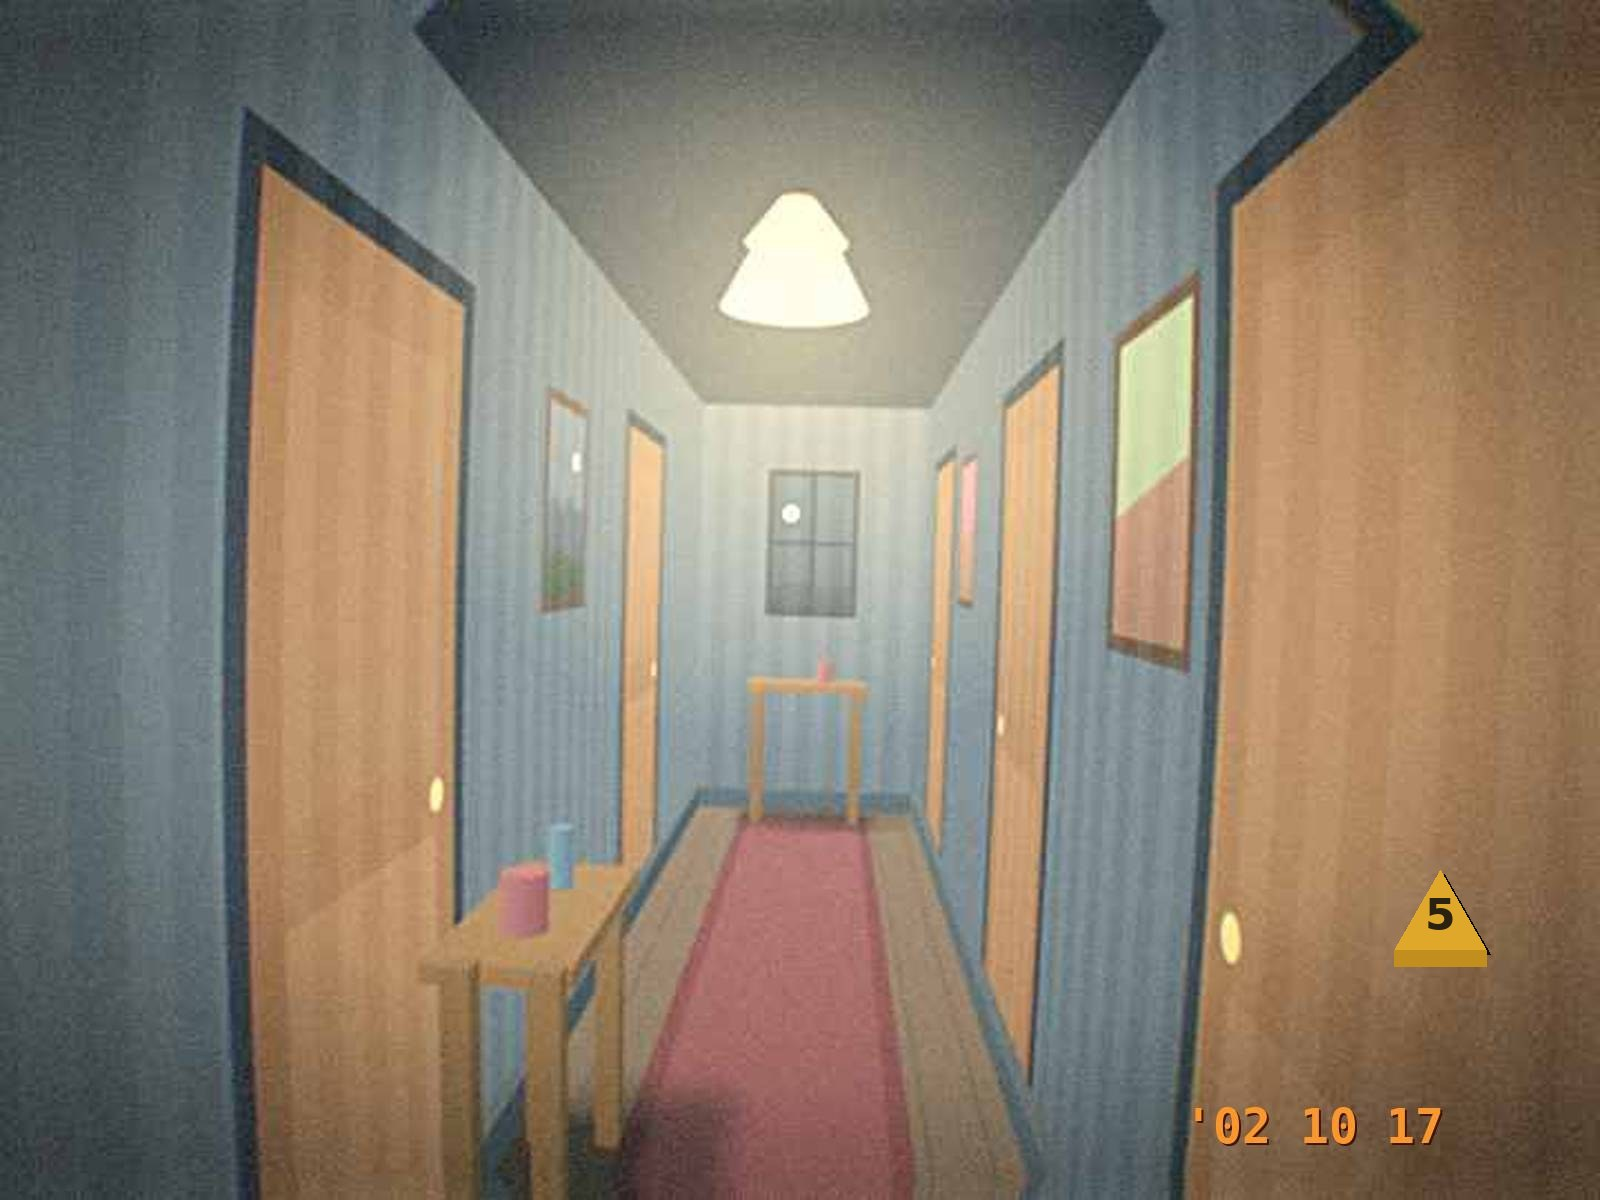
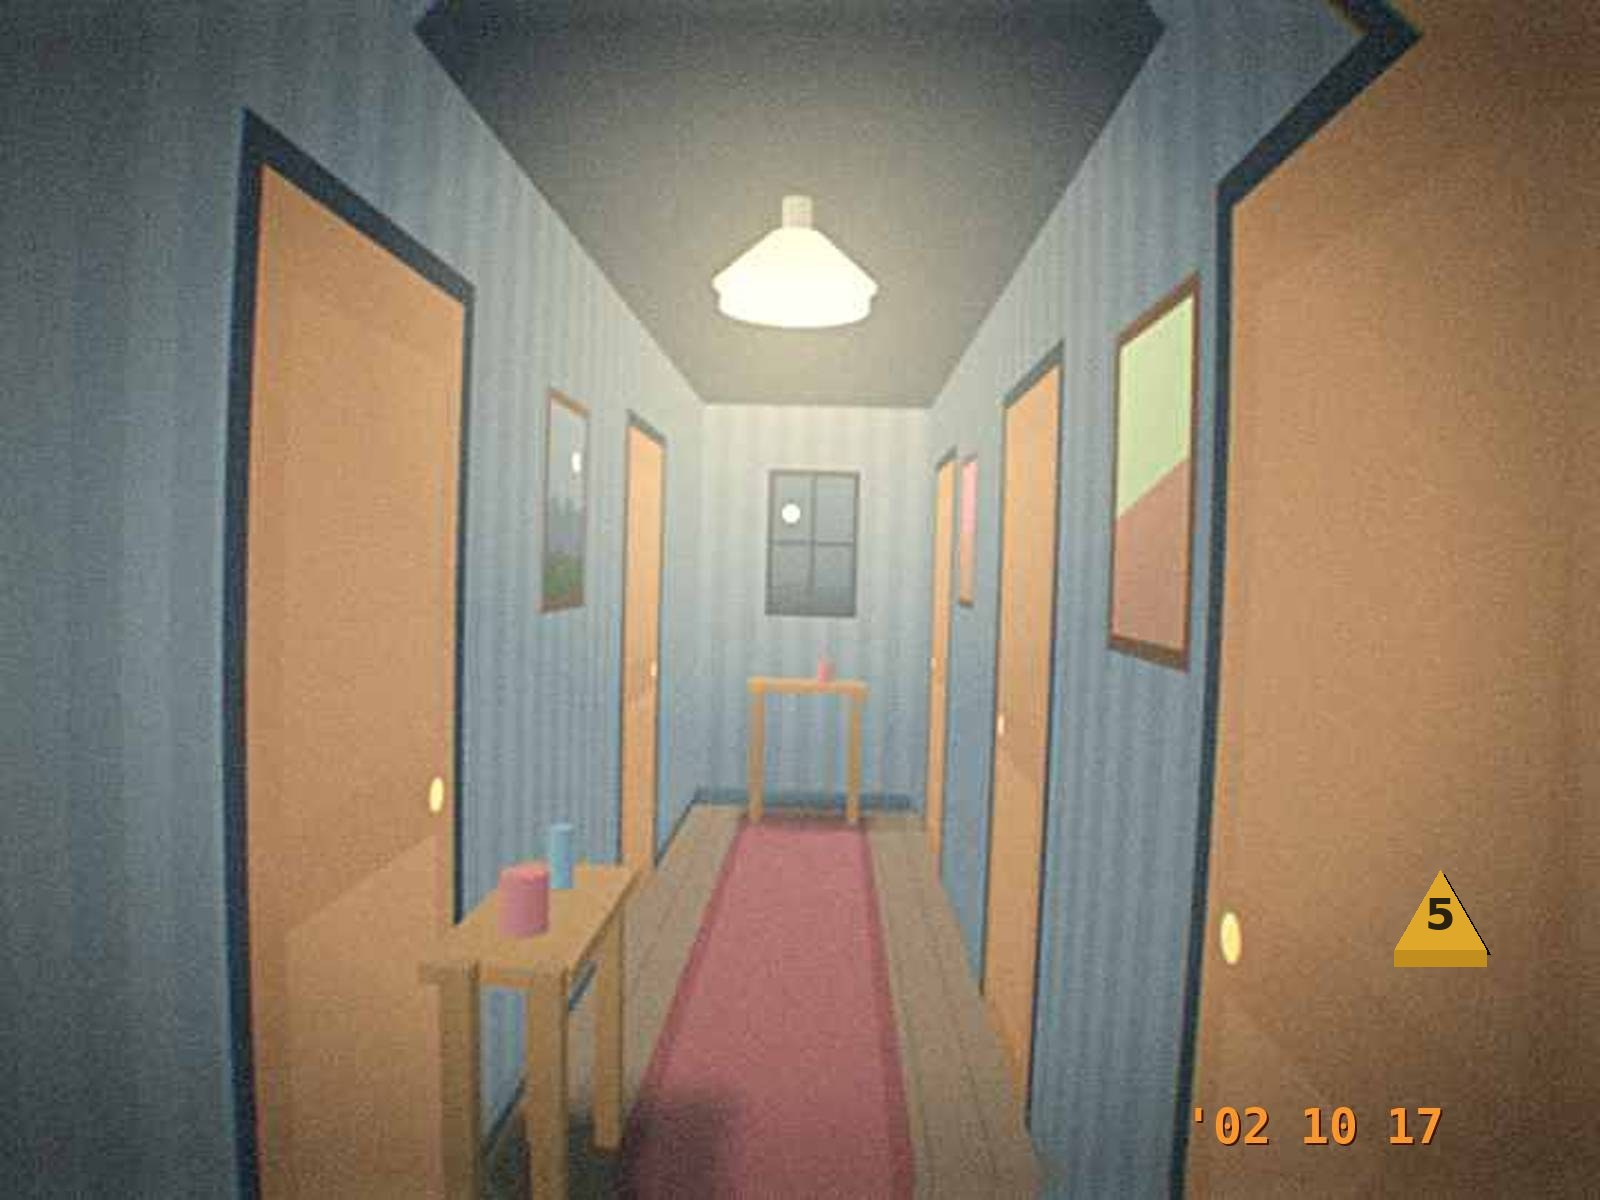
Revisão das 13 cenas: corrige rodapé, listras, cozinha, cadeira, luminária, cama, mochila, fachada e trava
- rodapé e listras do papel de parede na ordem de desenho correta (não cortam portas)
- casacos com forma; armário e panelas da cozinha, parede direita com quadro e prateleira
- cadeira do escritório menor e fora da mesa; luminária do corredor em cúpula
- quarto do casal: cabeceira com painéis, pé da cama, chinelos no chão, celular maior
- quarto de Lívia: mochila no lugar dos blocos
- trava do canil: parede de fundo contínua
- fachada da LAN: vitrine abaixo do letreiro, cone de luz do poste correto

Claude-Session: https://claude.ai/code/session_01Ca2uey9G1wANVTd1hU6UsR

diff --git a/tools/scene-render/scenes2.py b/tools/scene-render/scenes2.py
@@ -6,13 +6,15 @@ def casal():
     R.window('right',2.0,1.15,.95,1.1,night=True,curtain='#7d4d57')
     # cama
     bed(S,.35,3.3,1.7,2.1,0)
-    for i in range(4): S.box((.35-.62+i*.41,1.18,4.425),(.36,.42,.03),shade('#6a4a2a',.62),bias=-.5)
+    for i in range(4): S.box((.35-.63+i*.42,.8,4.29),(.36,.5,.02),shade('#6a4a2a',.62),bias=-.5)
+    S.box((.35,.36,2.22),(1.78,.4,.06),'#6a4a2a',bias=-.1)
     nightstand(S,-.75,4.15,0,'#7a5128',.58); nightstand(S,1.45,4.15,0,'#7a5128',.58)
     lamp(S,-.75,4.15,.58,.8)
     # celular antigo de Helena (cinza grafite, antena curta, tela monocromática)
-    S.box((1.45,.64,4.1),(.07,.12,.025),'#4a4f55',yaw=-10,bias=-.9)
-    S.cyl(1.44,4.1,.006,.70,.75,'#2f3338',bias=-.95,top=False)
-    S.box((1.45,.67,4.085),(.045,.04,.004),'#9fc0a0',yaw=-10,bias=-.97)
+    S.box((1.45,.65,4.1),(.1,.16,.03),'#4a4f55',yaw=-14,bias=-.9)
+    S.cyl(1.41,4.1,.008,.73,.82,'#2f3338',bias=-.95,top=False)
+    S.box((1.45,.69,4.083),(.065,.05,.004),'#9fc0a0',yaw=-14,bias=-.97)
+    S.box((1.45,.62,4.083),(.07,.04,.004),'#2f3338',yaw=-14,bias=-.97)
     # guarda-roupa
     S.floor_shadow(-1.95,3.0,-1.35,4.4,2.0,.4)
     S.box((-1.62,1.05,3.72),(.62,2.1,1.2),'#7a5230',yaw=0)
@@ -20,7 +22,7 @@ def casal():
     S.box((-1.3,1.05,3.1),(.03,1.9,.02),'#2a1f14',bias=-.4)
     for yy in (1.0,): S.cyl(-1.52,3.08,.02,yy,yy+.1,'#d6b257',bias=-.6,top=False)
     # chinelos e pufe
-    S.box((-.15,.04,2.55),(.12,.04,.28),'#8a5a40',yaw=20,bias=-.6); S.box((.02,.04,2.6),(.12,.04,.28),'#8a5a40',yaw=-8,bias=-.6)
+    S.box((-1.0,.025,2.0),(.11,.045,.27),'#8a5a40',yaw=25,bias=-.6); S.box((-.84,.025,2.06),(.11,.045,.27),'#8a5a40',yaw=-4,bias=-.6)
     S.floor_shadow(.9,1.8,1.4,2.3,.4,.35); S.cyl(1.15,2.05,.25,0,.4,'#7a62a0',r1=.22,bias=-.05)
     R.frame('back',1.3,1.7,.5,.4,'#4a3220','#4d6378')
     return S,[(*sp(S,(-.75,1.3,4.15)),520,'#ffd08a',.45)]
@@ -42,8 +44,9 @@ def livia():
     S.box((.95,1.55,4.05),(1.1,.03,.25),'#6a4a2a'); books(S,.45,1.45,1.565,4.07,.2,.3,.2,seed=3,bias=-.4)
     chair(S,.85,2.75,160,'#6a5a86','#7a6a96')
     # objetos
-    S.box((-.35,.07,2.1),(.3,.14,.24),'#4a7a6a',yaw=20,bias=-.6)  # mochila
-    S.box((-.05,.04,2.0),(.1,.07,.26),'#e8e8f0',yaw=40,bias=-.6); S.box((.12,.04,2.05),(.1,.07,.26),'#c24a3a',yaw=15,bias=-.6)
+    S.floor_shadow(.12,1.7,.5,2.1,.3,.3)
+    S.box((.3,.2,1.9),(.3,.4,.18),'#4a7a6a',yaw=20,bias=-.6); S.box((.3,.12,1.78),(.2,.16,.06),'#3a6a5a',yaw=20,bias=-.65)
+    S.box((.22,.28,1.99),(.03,.3,.02),'#2f5a4c',yaw=20,bias=-.7); S.box((.38,.28,1.99),(.03,.3,.02),'#2f5a4c',yaw=20,bias=-.7)
     S.floor_shadow(-.9,.7,.0,1.5,.2,.3); S.cyl(-.4,1.1,.4,0,.18,'#a05a8a',r1=.37,bias=-.05)
     S.cyl(1.55,3.7,.12,0,.35,'#4a7a6a',r1=.14,bias=-.1)
     return S,[(*sp(S,(1.0,1.3,3.6)),460,'#bcd8ff',.28),(*sp(S,(0,1.8,2.0)),700,'#ffd9a0',.18)]
@@ -159,7 +162,7 @@ def trava():
     S=Scene(Cam((-0.55,0.95,0.2),(0.12,0.82,1.6),fov=60,roll=3.0))
     S.sky('#1b2c38','#33505a')
     S.poly([(-3,0,-1),(3,0,-1),(3,0,7),(-3,0,7)],'#2c4a3a',.5,.12,depth=1.9e3)
-    S.box((0.3,1.2,5.2),(8,2.4,.2),'#5f6258')
+    S.box((0.3,1.5,5.2),(30,3.4,.2),'#4f544f')
     for i in range(18):
         S.poly([(-3.4+i*.4,0,5.09),(-3.4+i*.4+.025,0,5.09),(-3.4+i*.4+.025,2.4,5.09),(-3.4+i*.4,2.4,5.09)],'#000000',.5,0,depth=5.0,op=.1)
     gm=S.plane((-1.0,0,1.6),(1,0,0),(0,1,0))
@@ -193,21 +196,21 @@ def fachada():
     S.shape(bw,rect(7.2,.4,0,3.0),'#222d3d',.4,.08,depth=6.5-.1)
     S.shape(bw,rect(5.2,.8,.7,2.15),'#1b2433',.35,.05,depth=6.5-.2); S.shape(bw,rect(5.0,.62,.8,2.24),'#3b4558',.5,.1,depth=6.5-.3)
     S.text(bw,3.3,2.33,'LAN HOUSE',.46,'#f2c94c',depth=6.5-.4,spacing=.03,font='Impact, Arial Black, sans-serif')
-    S.shape(bw,rect(3.9,1.7,.45,.5),'#1a2230',.35,.05,depth=6.5-.2); S.shape(bw,rect(3.7,1.5,.55,.6),'#5aa0cf',.55,.1,depth=6.5-.3)
-    S.shape(bw,rect(3.7,1.5,.55,.6),'#fff0b8',.5,0,depth=6.5-.31,op=.18)
+    S.shape(bw,rect(3.9,1.45,.45,.45),'#1a2230',.35,.05,depth=6.5-.2); S.shape(bw,rect(3.7,1.25,.55,.55),'#5aa0cf',.55,.1,depth=6.5-.3)
+    S.shape(bw,rect(3.7,1.25,.55,.55),'#fff0b8',.5,0,depth=6.5-.31,op=.18)
     for k in range(4):
         x=.75+k*.88
-        S.shape(bw,rect(.62,.5,x,.95),'#c7c1ac',.55,.1,depth=6.5-.4);S.shape(bw,rect(.5,.38,x+.06,1.01),'#7ec0e8',.7,.12,depth=6.5-.45);S.shape(bw,rect(.3,.1,x+.16,.85),'#a39e8a',.5,0,depth=6.5-.4)
-    S.shape(bw,rect(3.7,.28,.55,.6),'#6b4a2a',.45,.08,depth=6.5-.42)
-    S.shape(bw,rect(.62,.5,.65,1.75),'#f1ead2',.82,.04,depth=6.5-.5)
-    for j in range(3): S.shape(bw,rect(.46-(j%2)*.1,.03,.73,1.98-j*.1),'#6a6a6a',.5,0,depth=6.5-.55)
+        S.shape(bw,rect(.62,.5,x,.88),'#c7c1ac',.55,.1,depth=6.5-.4);S.shape(bw,rect(.5,.38,x+.06,.94),'#7ec0e8',.7,.12,depth=6.5-.45);S.shape(bw,rect(.3,.1,x+.16,.78),'#a39e8a',.5,0,depth=6.5-.4)
+    S.shape(bw,rect(3.7,.28,.55,.55),'#6b4a2a',.45,.08,depth=6.5-.42)
+    S.shape(bw,rect(.62,.5,.65,1.5),'#f1ead2',.82,.04,depth=6.5-.5)
+    for j in range(3): S.shape(bw,rect(.46-(j%2)*.1,.03,.73,1.73-j*.1),'#6a6a6a',.5,0,depth=6.5-.55)
     S.shape(bw,rect(1.1,2.15,4.55,0),'#1a2230',.35,.05,depth=6.5-.2); S.shape(bw,rect(.95,2.0,4.62,0),'#566174',.5,.1,depth=6.5-.3)
     S.shape(bw,[(5.35+.04*math.cos(i*PI/8),1.0+.04*math.sin(i*PI/8)) for i in range(16)],'#d6c28a',.7,0,depth=6.5-.4)
     # poste
     S.cyl(2.7,5.9,.06,0,4.3,'#2a3340',t=.45,top=False,bias=-1)
     S.box((2.1,4.3,5.9),(1.3,.12,.12),'#2a3340',bias=-1.1); S.cyl(1.55,5.9,.2,4.18,4.3,'#f4c97a',t=.9,bias=-1.2)
-    S.poly([(1.55,4.2,5.9),(.2,0.01,5.2),(2.9,0.01,5.2)],'#f4c97a',.6,0,depth=1.7e3,op=.14)
-    S.poly([(1.55,4.2,5.9),(.2,.02,6.9),(3.0,.02,6.9)],'#f4c97a',.6,0,depth=1.72e3,op=.1)
+    S.poly([(1.55,4.18,5.9),(.7,0.01,5.6),(2.5,0.01,5.6)],'#f4c97a',.6,0,depth=float(S.cam.cs((1.55,2,5.9))[2])+.3,op=.12)
+    S.poly([(.2,.012,5.3),(3.0,.012,5.3),(3.0,.012,6.85),(.2,.012,6.85)],'#f4c97a',.6,0,depth=1.7e3,op=.07,extra='filter="url(#bl2)"')
     return S,[(*sp(S,(1.55,4.2,5.9)),520,'#ffd08a',.42),(*sp(S,(0.2,1.5,6.7)),700,'#bfe3ff',.18)]
 if __name__=='__main__':
     for n,f in (('06_quarto_casal',casal),('07_quarto_livia',livia),('08_canil',canil),('09_painel',painel),('f1_fechadura',fechadura),('f2_trava',trava),('f3_comparativo',comparativo),('f4_fachada',fachada)):

diff --git a/tools/scene-render/scenes1.py b/tools/scene-render/scenes1.py
@@ -24,8 +24,8 @@ def entrada():
     pl=R.wp('right')
     R.put('right',rect(.9,.05,1.9,1.78),'#6a4a2a',.5)
     for hx_ in (2.1,2.45,2.75): R.put('right',[(hx_+.02*math.cos(i*PI/6),1.74+.02*math.sin(i*PI/6)) for i in range(12)],'#2a2f35',.4)
-    R.put('right',[(2.0,1.72),(2.28,1.72),(2.32,1.0),(1.95,1.0)],'#7a3f3a',.5,.1)
-    R.put('right',[(2.36,1.72),(2.62,1.72),(2.68,.95),(2.32,.95)],'#3d5a7a',.5,.1)
+    R.put('right',[(2.1,1.74),(2.2,1.76),(2.3,1.74),(2.4,1.62),(2.36,1.1),(2.2,1.06),(2.04,1.1),(2.0,1.62)],'#7a3f3a',.5,.1); R.put('right',[(2.2,1.45),(2.2,1.05),(2.3,1.06),(2.3,1.46)],'#5a2d2d',.5,0)
+    R.put('right',[(2.46,1.74),(2.56,1.76),(2.66,1.74),(2.76,1.62),(2.72,.98),(2.56,.94),(2.4,.98),(2.36,1.62)],'#3d5a7a',.5,.1); R.put('right',[(2.55,1.45),(2.55,.96),(2.65,.97),(2.65,1.46)],'#2d4560',.5,0)
     R.put('right',[(2.68,1.78),(2.95,1.78),(2.9,1.7),(2.72,1.7)],'#8a7a5a',.5)
     # tapete soleira
     S.poly([(-.5,.006,3.45),(.5,.006,3.45),(.5,.006,3.7),(-.5,.006,3.7)],'#3b2a22',.5,.06,depth=1.69e3)
@@ -72,7 +72,7 @@ def cozinha():
     S.floor_shadow(-1.9,3.7,.7,4.2,.9,.4)
     S.box((-.6,.45,3.9),(2.6,.9,.6),'#4f6e7e'); S.box((-.6,.92,3.88),(2.66,.04,.66),'#9aa0a0',bias=-.2)
     for i in range(5): S.box((-1.7+i*.5+.0,.45,3.595),(.46,.74,.02),'#456170',bias=-.3); S.box((-1.7+i*.5+.15,.55,3.58),(.04,.1,.02),'#d6d0b8',bias=-.35)
-    S.box((-1.2,1.95,4.05),(1.4,.6,.35),'#a97a48'); S.box((-1.5,1.95,3.87),(.6,.56,.02),'#8a6038',bias=-.2); S.box((-.9,1.95,3.87),(.6,.56,.02),'#8a6038',bias=-.2)
+    S.box((-1.2,1.95,4.05),(1.4,.6,.35),'#a97a48'); S.box((-1.5,1.95,3.86),(.64,.54,.02),'#8a6038',bias=-.6); S.box((-.9,1.95,3.86),(.64,.54,.02),'#8a6038',bias=-.6); S.box((-1.22,1.78,3.85),(.03,.12,.02),'#d6d0b8',bias=-.7); S.box((-1.18,1.78,3.85),(.03,.12,.02),'#d6d0b8',bias=-.7)
     # fogão
     for bx in (-.25,.1): 
         S.cyl(bx,3.9,.1,.94,.955,'#222a30',bias=-.9)
@@ -92,11 +92,17 @@ def cozinha():
         S.cyl(bx,bz,.17,.43,.47,'#c9a14a',bias=-.1)
         for sx,sz in ((-1,-1),(1,1),(-1,1),(1,-1)): S.cyl(bx+sx*.11,bz+sz*.11,.018,0,.43,'#8a6038',top=False,bias=-.05)
     # panelas penduradas e relógio
+    S.box((-1.2,1.62,4.17),(.7,.02,.02),'#6c767c',bias=-.5)
     for i,x in enumerate((-1.45,-1.2,-.95)):
-        S.cyl(x,4.1,.09,1.55,1.62,'#8d98a0',bias=-.5)
+        S.cyl(x,4.12,.075,1.46,1.58,'#8d98a0',r1=.065,bias=-.6); S.box((x+.09,1.55,4.12),(.07,.02,.02),'#6c767c',bias=-.65)
     cl=S.plane((1.0,2.0,4.18),(1,0,0),(0,1,0))
     S.shape(cl,circ(.14,24),'#d8d2bf',.8,0,depth=4.1-1);S.shape(cl,circ(.12,24),'#f1ecd8',.85,0,depth=4.1-1.1)
     S.shape(cl,[(-.004,0),(.004,0),(.004,.09),(-.004,.09)],'#25201a',.4,0,depth=4.1-1.2);S.shape(cl,[(0,-.004),(.07,-.01),(.07,.004),(0,.004)],'#25201a',.4,0,depth=4.1-1.2)
+    R.frame('right',2.3,1.35,.45,.6,'#4a3220','#d8d2bf',scene=None)
+    R.put('right',[(2.38,1.55),(2.67,1.55),(2.67,1.62),(2.38,1.62)],'#b0463a',.55)
+    for j in range(3): R.put('right',[(2.4,1.43+j*.04),(2.64,1.43+j*.04),(2.64,1.435+j*.04),(2.4,1.435+j*.04)],'#6a6a6a',.5)
+    R.put('right',rect(.9,.03,1.0,1.5),'#6a4a2a',.5)
+    for jj,jc in enumerate(('#c9a14a','#a24b3d','#5a8a5a')): S.box((1.93,1.57,1.2+jj*.25),(.1,.12,.1),jc,bias=-.4)
     # tapete azul
     S.poly([(-.5,.004,1.4),(.9,.004,1.4),(.9,.004,1.8),(-.5,.004,1.8)],'#2d5f7a',.5,.06,depth=1.7e3)
     return S,[(*sp(S,(0.2,2.2,3.5)),620,'#ffe3b0',.28)]
@@ -120,8 +126,9 @@ def corredor():
     table(S,0,6.35,.7,.3,.8,'#7a5128')
     S.cyl(.1,6.35,.05,.825,.95,'#8a3d4a',bias=-.9)
     # luminária de teto
-    S.cyl(0,3.0,.14,2.38,2.5,'#e9d9a4',r1=.05,t=.9,bias=-.5); S.cyl(0,3.0,.14,2.2,2.38,'#e9d9a4',r1=.14,t=.9,bias=-.5) if False else None
-    S.cyl(0,3.0,.2,2.2,2.36,'#f1e4b0',r1=.12,t=.92,bias=-.5)
+    S.cyl(0,3.0,.04,2.4,2.5,'#6c767c',bias=-.4,top=False)
+    S.cyl(0,3.0,.22,2.26,2.4,'#e9d9a4',r1=.07,t=.9,bias=-.5)
+    S.cyl(0,3.0,.2,2.2,2.27,'#fff3c4',t=.95,bias=-.55)
     # aparador baixo à esquerda
     table(S,-.5,2.45,.3,.7,.7,'#7a5128',yaw=0)
     S.cyl(-.5,2.3,.05,.725,.85,'#8a3d4a',bias=-.9); S.cyl(-.5,2.6,.03,.725,.87,'#3d6a8a',bias=-.9)

diff --git a/tools/scene-render/kit.py b/tools/scene-render/kit.py
@@ -20,12 +20,12 @@ class Room:
             if 'back' in walls:
                 x=X0
                 while x<X1:
-                    S.poly([(x,0,Z1-.001),(x+.09,0,Z1-.001),(x+.09,YH,Z1-.001),(x,YH,Z1-.001)],'#ffffff',.5,0,depth=1.8e3,op=stripe_op);x+=.18
+                    S.poly([(x,0,Z1-.001),(x+.09,0,Z1-.001),(x+.09,YH,Z1-.001),(x,YH,Z1-.001)],'#ffffff',.5,0,depth=2e3-2,op=stripe_op);x+=.18
             for side,xx in (('right',X1-.001),('left',X0+.001)):
                 if side in walls:
                     z=Z0
                     while z<Z1:
-                        S.poly([(xx,0,z),(xx,0,z+.09),(xx,YH,z+.09),(xx,YH,z)],'#ffffff',.5,0,depth=1.8e3,op=stripe_op);z+=.18
+                        S.poly([(xx,0,z),(xx,0,z+.09),(xx,YH,z+.09),(xx,YH,z)],'#ffffff',.5,0,depth=2e3-2,op=stripe_op);z+=.18
         if planks:
             for i in range(int((X1-X0)/.16)+1):
                 x=X0+i*.16
@@ -34,9 +34,9 @@ class Room:
                     zz=Z0+random.uniform(0,Z1-Z0)
                     S.poly([(x,0.001,zz),(x+.16,0.001,zz),(x+.16,0.001,zz+.006),(x,0.001,zz+.006)],'#000000',.5,0,depth=1.85e3,op=.15)
         bc='#2c3e4e'
-        if 'back' in walls: S.box(((X0+X1)/2,.06,Z1-.02),(X1-X0,.12,.04),bc,bias=100)
-        if 'right' in walls: S.box((X1-.02,.06,(Z0+Z1)/2),(.04,.12,Z1-Z0),bc,bias=100)
-        if 'left' in walls: S.box((X0+.02,.06,(Z0+Z1)/2),(.04,.12,Z1-Z0),bc,bias=100)
+        if 'back' in walls: S.box(((X0+X1)/2,.06,Z1-.02),(X1-X0,.12,.04),bc,depth=2e3-3)
+        if 'right' in walls: S.box((X1-.02,.06,(Z0+Z1)/2),(.04,.12,Z1-Z0),bc,depth=2e3-3)
+        if 'left' in walls: S.box((X0+.02,.06,(Z0+Z1)/2),(.04,.12,Z1-Z0),bc,depth=2e3-3)
         if rug:
             (rx0,rx1,rz0,rz1,rc)=rug
             S.poly([(rx0,.004,rz0),(rx1,.004,rz0),(rx1,.004,rz1),(rx0,.004,rz1)],rc,.5,.06,depth=1.7e3)

diff --git a/tools/scene-render/engine.py b/tools/scene-render/engine.py
@@ -52,7 +52,7 @@ class Scene:
         s.items.append((dd,f'<path d="{s.d(sc)}" fill="{fill}" opacity="{op}" {extra}/>'))
     def raw(s,depth,svg): s.items.append((depth,svg))
     def faceT(s,n): return .30+.62*max(0.0,float(np.dot(n,s.L)))
-    def box(s,c,size,color,yaw=0,tops=True,g=.06,bias=0,t_add=0,skip=()):
+    def box(s,c,size,color,yaw=0,tops=True,g=.06,bias=0,t_add=0,skip=(),depth=None):
         cx,cy,cz=c;w,h,d=size;a=math.radians(yaw);ca,sa=math.cos(a),math.sin(a)
         def P(x,y,z): return (cx+x*ca+z*sa,cy+y,cz-x*sa+z*ca)
         hw,hh,hd=w/2,h/2,d/2
@@ -61,14 +61,14 @@ class Scene:
                'left':([(-hw,-hh,hd),(-hw,-hh,-hd),(-hw,hh,-hd),(-hw,hh,hd)],(-ca,0,sa)),
                'right':([(hw,-hh,-hd),(hw,-hh,hd),(hw,hh,hd),(hw,hh,-hd)],(ca,0,-sa)),
                'top':([(-hw,hh,-hd),(hw,hh,-hd),(hw,hh,hd),(-hw,hh,hd)],(0,1,0))}
-        ctr=np.array([cx,cy,cz]);dep=None
+        ctr=np.array([cx,cy,cz]);dep=depth
         for k,(pts,n) in faces.items():
             if k in skip: continue
             n=np.array(n,float);pts3=[P(*q) for q in pts]
             fc=np.mean(pts3,axis=0)
             if np.dot(n,s.cam.p-fc)<=0: continue
             tt=s.faceT(n)+t_add
-            s.poly(pts3,color,tt,g if k!='top' else g*.4,depth=float(s.cam.cs(ctr)[2]),bias=bias)
+            s.poly(pts3,color,tt,g if k!='top' else g*.4,depth=(dep if dep is not None else float(s.cam.cs(ctr)[2])),bias=bias)
     def hull(s,pts):
         pts=sorted(set((round(x,1),round(y,1)) for x,y in pts))
         if len(pts)<3: return pts

diff --git a/tools/scene-render/escritorio3d.py b/tools/scene-render/escritorio3d.py
@@ -29,7 +29,7 @@ def build(cam=None):
             zz=Z0+random.uniform(0,Z1-Z0)
             S.poly([(x,0.001,zz),(x+.16,0.001,zz),(x+.16,0.001,zz+.006),(x,0.001,zz+.006)],'#000000',.5,0,depth=1.85e3,op=.16)
     # rodapés
-    S.box((0,.06,Z1-.02),(4.2,.12,.04),'#2c3e4e',bias=100); S.box((X1-.02,.06,1.7),(.04,.12,6.1),'#2c3e4e',bias=100)
+    S.box((0,.06,Z1-.02),(4.2,.12,.04),'#2c3e4e',depth=2e3-3); S.box((X1-.02,.06,1.7),(.04,.12,6.1),'#2c3e4e',depth=2e3-3)
     # tapete
     S.poly([(-.9,.004,2.35),(1.55,.004,2.35),(1.55,.004,3.55),(-.9,.004,3.55)],'#4a3038',.5,.06,depth=1.7e3)
     S.poly([(-.82,.005,2.43),(1.47,.005,2.43),(1.47,.005,3.47),(-.82,.005,3.47)],'#573a42',.5,.05,depth=1.69e3)
@@ -96,7 +96,7 @@ def build(cam=None):
     # ---- cadeira
     def rot(dx,dz,yaw):
         a=math.radians(yaw);return dx*math.cos(a)+dz*math.sin(a),-dx*math.sin(a)+dz*math.cos(a)
-    cx,cz,yw=-1.32,2.35,-38
+    cx,cz,yw=-1.3,3.05,-48
     S.floor_shadow(cx-.28,cz-.28,cx+.28,cz+.28,.5,.4)
     S.cyl(cx,cz,.03,.13,.43,'#1e262e',top=False,bias=-.2)
     for k in range(5):
